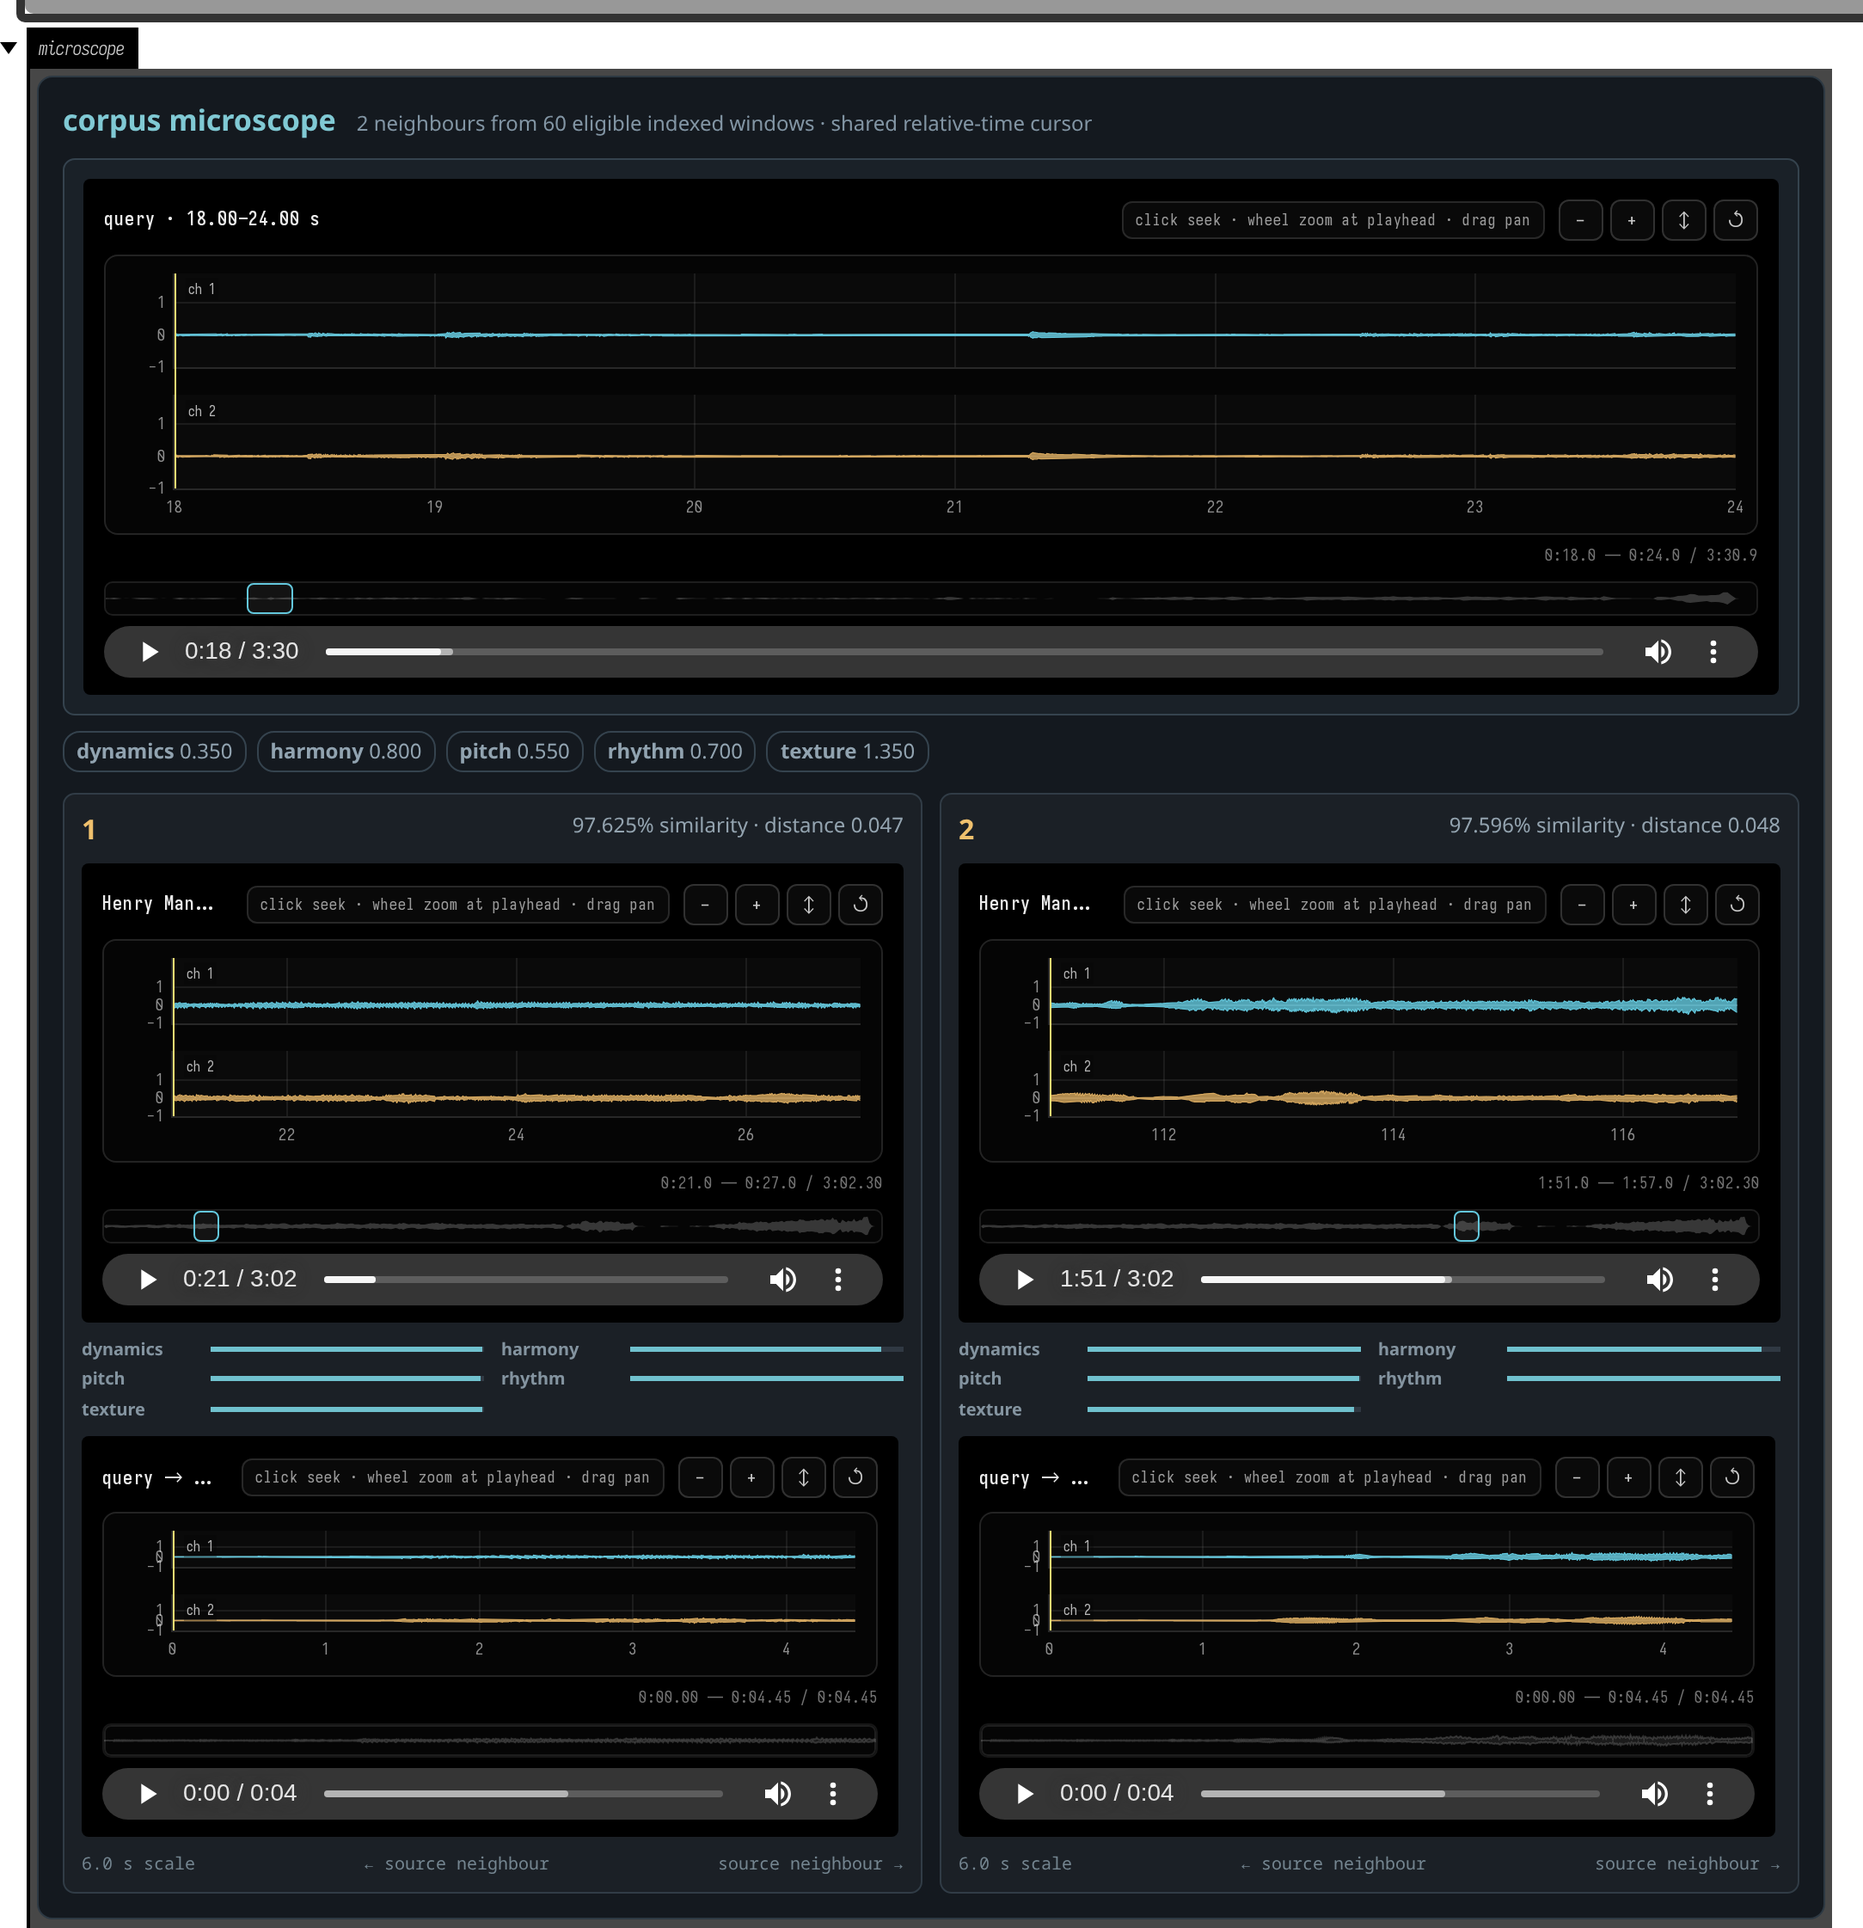
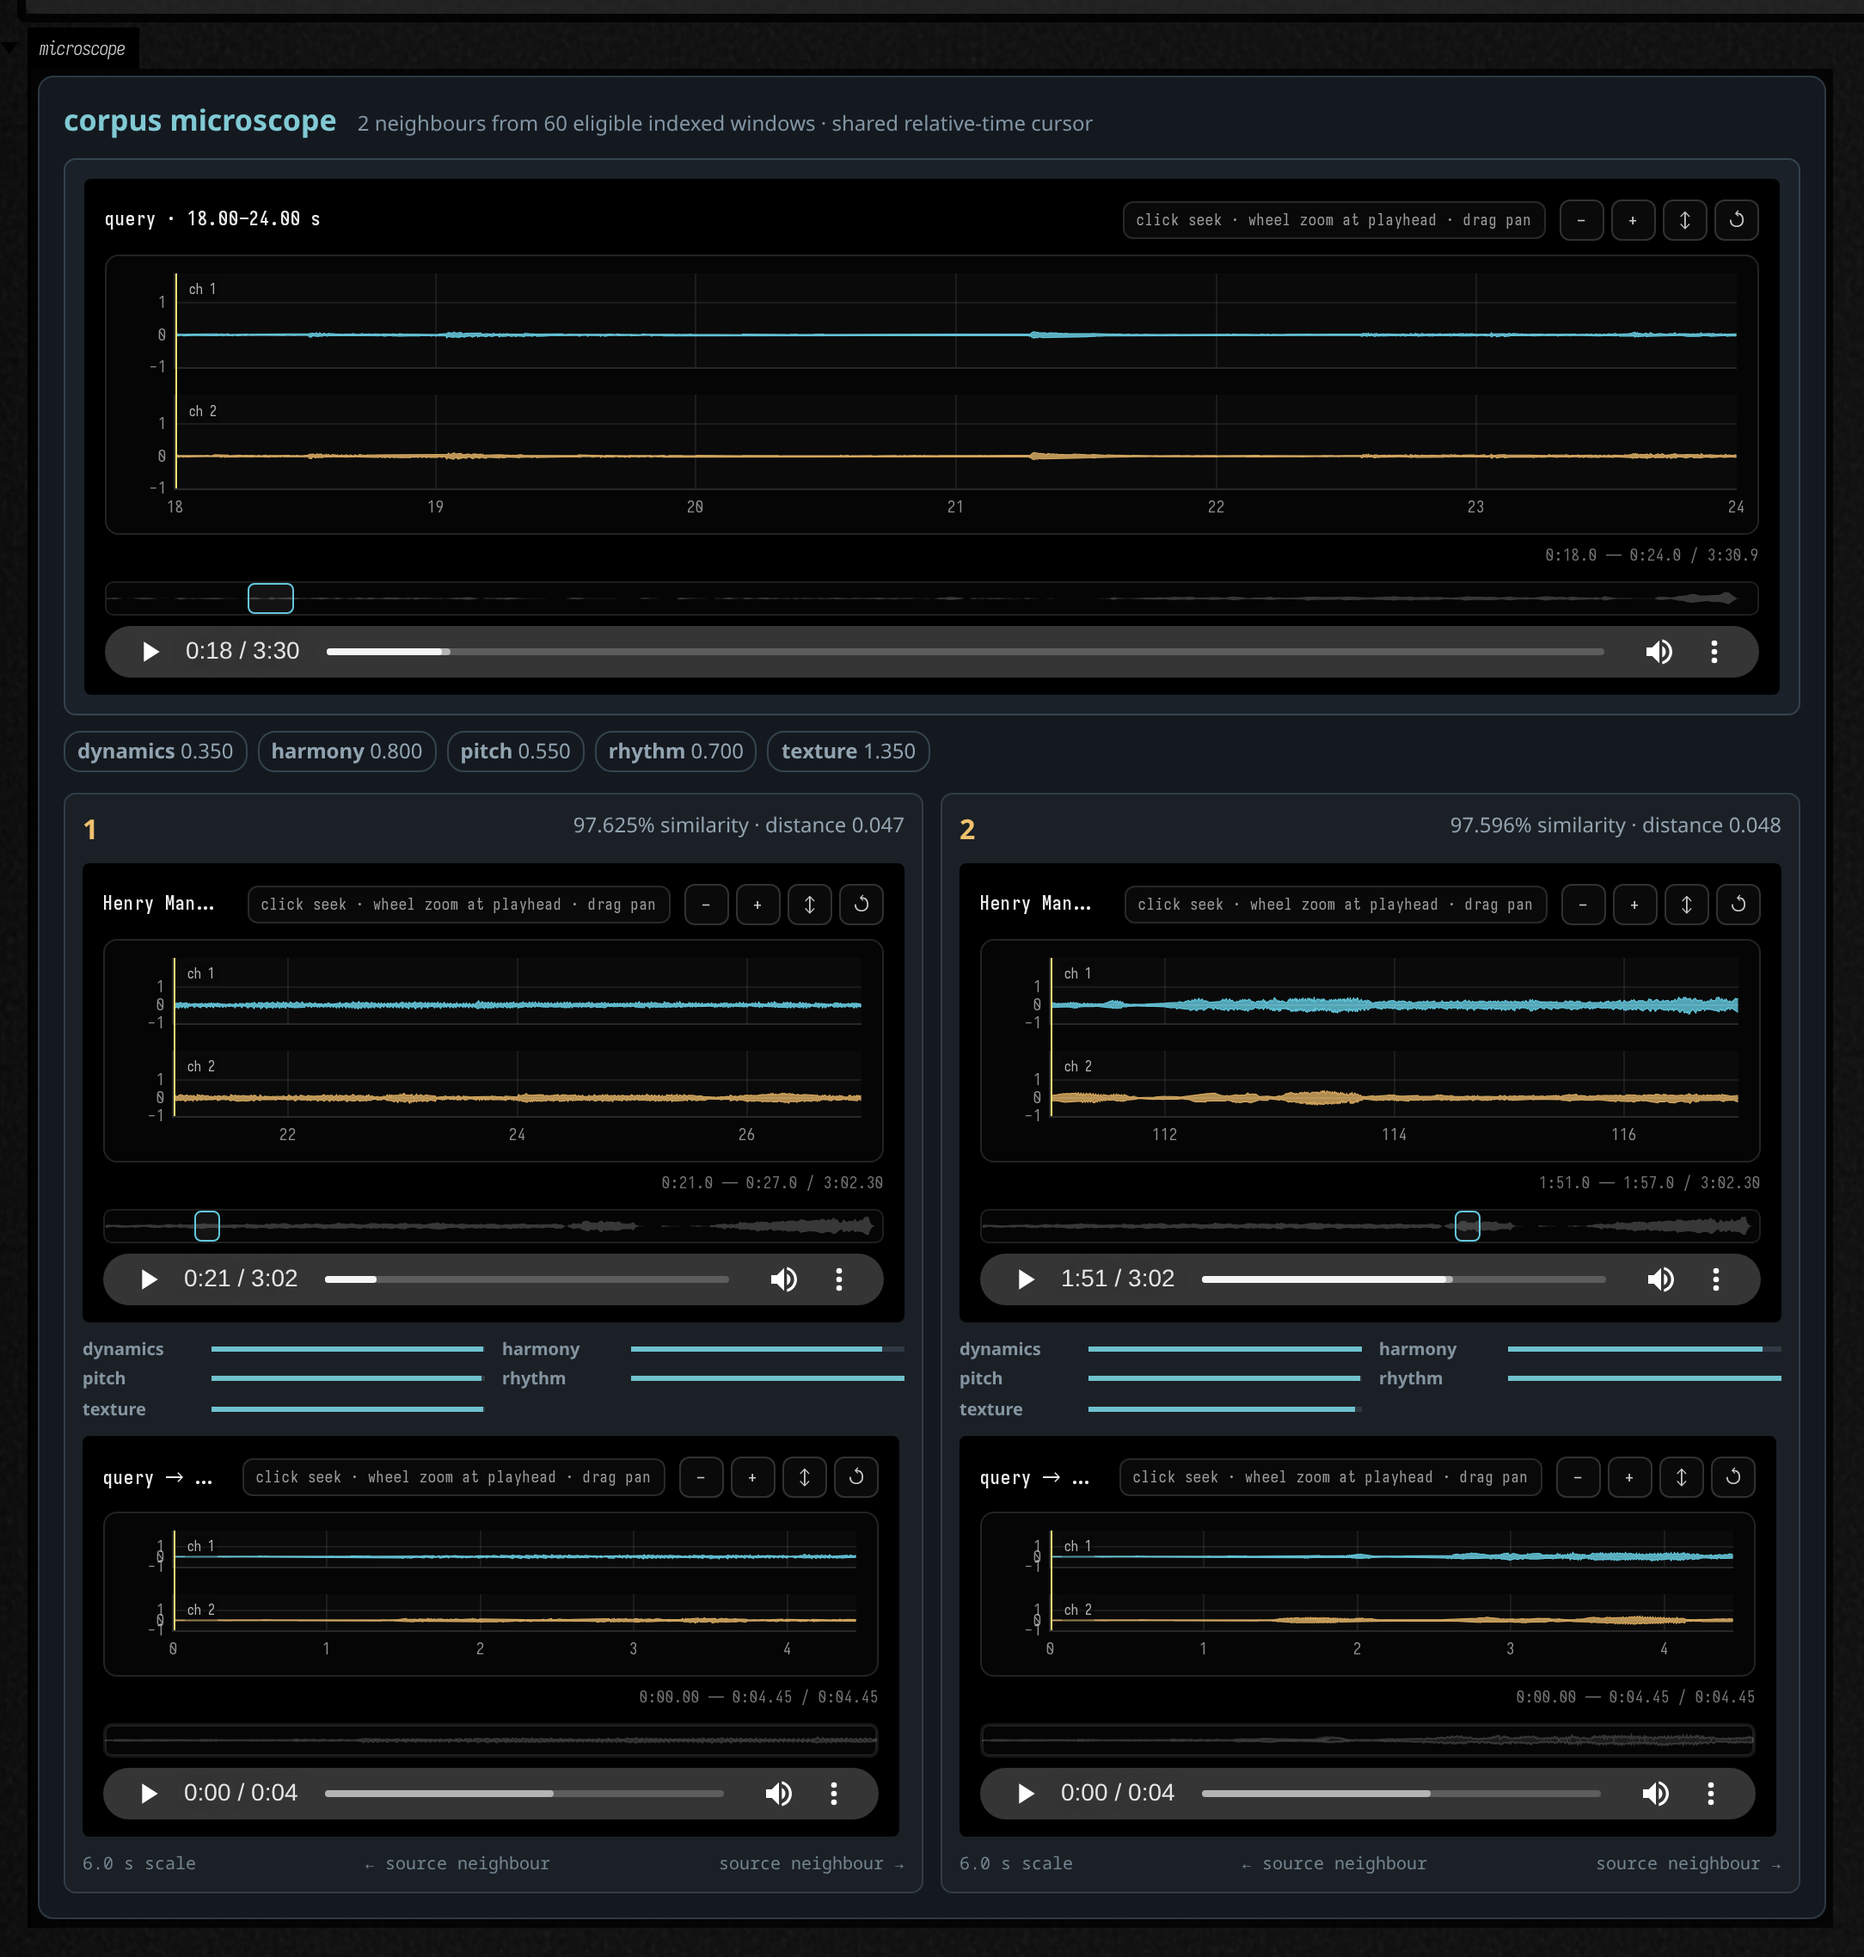
Recapture Corpus microscope hero on Field background

diff --git a/public/docs_hooks.py b/public/docs_hooks.py
@@ -5503,6 +5503,13 @@ def build_backdoor_command(
             ]))
         elif capture_mode == "box":
             target_uid = default_target_uid
+            # Tall output crops can extend beyond the viewport, where Chromium paints
+            # white unless the document root has Field's background. The WebGL
+            # backdrop can also composite white in clipped headless screenshots.
+            backdoor_commands.append(shlex.join([
+                "page-eval", "--file", str(repo_root / "tools/lighting/capture_background.js"),
+                "--timeout", str(options.timeout),
+            ]))
             parts = [
                 "screenshot-box",
                 target_uid,
